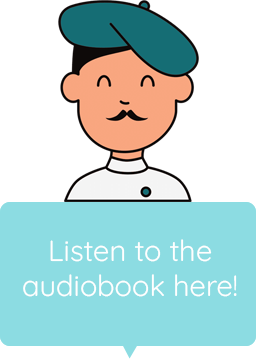
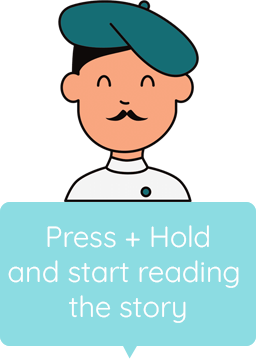
mobile version

Changed region(s): [[0.0312, 0.6128, 0.9375, 0.9192]]

diff --git a/public/js/script.js b/public/js/script.js
@@ -14,29 +14,29 @@ console.log('main row set to'+mainrowheight);
 var mic_on_color = "rgb(220,64,53)";
 var mic_off_color = "#156d74"
 
-$("#circle").mousedown(function(){
+$(".circle").mousedown(function(){
     console.log('holding.....');
-    $("#circle").css({'background':mic_on_color});
+    $(".circle").css({'background':mic_on_color});
     startRecording();
 });
 
-$("#circle").mouseup(function() {
-    $("#circle").css({'background':mic_off_color});
+$(".circle").mouseup(function() {
+    $(".circle").css({'background':mic_off_color});
     console.log('released');
     stopRecording();
 });
 
-$("#circle").on('touchstart', function(e){
+$(".circle").on('touchstart', function(e){
     e.preventDefault();
 
     console.log('holding.....');
-    $("#circle").css({'background':mic_on_color});
+    $(".circle").css({'background':mic_on_color});
     startRecording();
 });
 
-$("#circle").on('touchend', function(e){
+$(".circle").on('touchend', function(e){
     e.preventDefault();
-    $("#circle").css({'background':mic_off_color});
+    $(".circle").css({'background':mic_off_color});
     console.log('released');
     stopRecording();
 });
@@ -59,7 +59,7 @@ $('#playbutton').on('click',function(){
         player.pause();
     }
    
-    // $("#circle").css({'background':mic_off_color});
+    // $(".circle").css({'background':mic_off_color});
     
 })
 
@@ -88,7 +88,7 @@ const ps = new PerfectScrollbar('.result_holder', {
 // console.log(my_transcript);
 
 // Main single word homophone dictionary
-var homophone_dict = {'25 000': ['25000', '251000', '25miles'], 'a': ['Ah'], 'à': ['Ah'], 'à bord': ['adore'], 'agite': ['àgîtes'], 'aiment': ['M'], 'anciens': ['ancien'], 'ans': ['en'], 'appelé': ['appeler'], 'arrangez': ['arranger'], 'arrivé': ['arrivée'], 'arrivées': ['arrivé'], 'arriver': ['arrivée', 'arrivé', 'arrivées'], 'Au': ['Oh'], 'au': ['Oh'], 'aux': ['Oh','au'], 'aux hommes': ['awesome'], 'avons': ['avant'], 'bateau': ['bâteau'], 'beaux': ['beau'], 'bonnes': ['bonne'], 'brave': ['AvePAF'], 'bruns': ['brun'], 'calme': ['Cannes'], 'caractéristique': ['caractéristiques'], 'cause': ['COS'], 'cérébrale': ['cérébral'], 'cet ': ['7', 'cette'], 'cette': ['7'], 'ciel': ['sur'], 'commencé': ['commencer'], 'commencent': ['commence'], 'composent': ['compose'], 'conseils': ['conseil'], 'contrôlé': ['contrôler'], 'Crie': ['cri'], 'curieuses': ['curieuse'],"demandent":["demande"], "d'Elbe": ['Dalbe', 'soldes', 'Delvaux', 'Dell', 'bébé'], "d'évolution": ['devolution'], "d'honneur": ['donneur', 'toner'], 'd’anxiété': ["d'anxiété"], 'Danglars': ['latangla', 'Tangara', 'dollar', 'tongars', 'peignoir', 'Danglard', 'standard', 'Danglars'], 'dans': ['temps'], 'Dantès': ['Dantès', 'dentaire', 'Dante', 'danstes', 'tenter'], 'de': ['2'], 'désirez': ['désiré'], 'détestent': ['déteste'], 'dit': ['10', 'mets'], 'dites': ['dit'], 'dix': ['10'], 'dix-neuf': ['19'], 'doit': ['doigt', 'toi'], 'donnent': ['donne'], 'du port': ['duporc'], 'Edmond': ['Edmonde', 'etdemain'], 'Eh bien': ['etbien'], 'elles': ['elle'], 'en': ['on','a'], 'équipements': ['équipement'], 'est': ['et'], 'fait': ['fais'], 'francs': ['franc'], 'gestes': ['geste'], 'grand': ['quand', 'Groscon', 'Cran', 'camp'], 'habitués': ['habitué'], 'haine': ['n'], 'Hé': ['et'], 'heures': ['heure'], 'homme': ['femme'], 'hommes': ['homme', 'femme'], 'honnête': ['ponette'], 'honore': ['Honor'], 'huit': ['8', 'oui'], 'ils': ['il'], 'inattendue': ['inattendu'], 'intelligents': ['intelligent'], 'je': ['jeux'], 'jetant': ["jet'en"], 'jeune homme': ['jeunefemme'], 'jours': ['jour'], "l'île": ['Lille'], 'Leclère': ['Leclerc'], 'les': ['mets'], 'leur': ["l'heure"], 'livrées': ['livret'], 'livrées en': ['livretA'], 'longue': ['langue'], 'lui': ['nuit'], 'M': ['monsieur', 'M', 'aime'], 'main': ['mets'], 'Mais': ['mets'], 'malheur': ['alors'], 'manière': ['panière'], 'marchandise': ['marchandises'], 'marchandises': ['marchandise'], 'marins': ['marin'], 'monsieur': ['monsieur', 'Monster', 'monsieur', 'bonnesœur', 'masœur'], 'monte': ['Nantes', 'menthe'], 'Morell': ['Morel'], 'mort': ['Marc', 'Laure', 'alors', 'nord'], 'mortels': ['mortel'], 'mouvement ': ['ouvreman'], "n'a": ['na', 'non'], "n'est-ce pas": ['néo', 'mets', 'LaCiotat'], "n'y": ['ni'], 'noirs': ['noir'], 'nouvel': ['nouvelle'], 'obéissent': ['obéisse'], 'ordinaires': ['ordinaire'], 'ordres': ['ordre', 'odre'], 'organisé': ['organiser'], 'ou': ['où'], 'personnes': ['personne'], 'peut': ['peu'], 'plate-forme': ['plateforme'], 'point': ['.'], 'préparez': ['préparer'], 'près': ['prêt'], 'pressé': ['presser'], 'pris': ['prix'], 'promets': ['promet'], "Qu'est-ce": ['caisse'], "qu'ils": ["qu'il"], "qu'on": ['con'], 'quitte': ['kit'], 'quitté': ['quitter'], 'rapides': ['rapide'], 'rapportons': ['rapportant'], 'rassuré': ['rassurer'], 'Répond': ['réponds'], 'répond': ['réponds'], 'réponds': ['répond'], 'revient': ['reviens'], "s'exécute": ["c'estquec'estculte", 'sexycute', 'sexeécoute'], 'sa': ['ça'], 'saisit': ['saisie'], 'sans': ['100'], 'savez': ['savais', 'çafait', 'avec'], 'se': ['ce'], 'se demandent': ['se demande'], 'serez': ['serai'], 'ses': ["c'est"], 'si': ['6'], 'sombre': ['sandre', 'semble', 'Sambre', 'centre'], 'sommes': ['Sam'], 'sont': ['100', 'son'], 'sort': ['Saur', 'Sarah'], 'souffrances': ['souffrance'], 'soulagé': ['soulager'], 'spectateurs': ['spectateur'], 'statut': ['statue'], 'subordonnés': ['subordonnée'], 'supérieurs': ['supérieur'], 'tombé': ['tomber'], 'tous': ['tu'], 'tout': ['tu'], 'toutes': ['tout'], 'travaille': ['travail'], 'très': ['prêt'], 'triste': ['test'], 'trois': ['3'], 'un': ['1'], 'vécu': ['déçu'], 'vers': ['verre'], 'vie': ['v'], 'vingt-cinq': ['25', '20V'], 'vois': ['voix'], 'voulez': ['boulet', 'voulais'], 'vous': ['veau', 'faux'], 'yeux': ['mieux', 'Dieu']};
+var homophone_dict = {'25 000': ['25000', '251000', '25miles'], 'a': ['Ah'], 'à': ['Ah'], 'à bord': ['adore'], 'agite': ['àgîtes'], 'aiment': ['M'], 'anciens': ['ancien'], 'ans': ['en'], 'appelé': ['appeler'], 'arrangez': ['arranger'], 'arrivé': ['arrivée'], 'arrivées': ['arrivé'], 'arriver': ['arrivée', 'arrivé', 'arrivées'], 'Au': ['Oh'], 'au': ['Oh'], 'aux': ['Oh','au'], 'aux hommes': ['awesome'], 'avons': ['avant'], 'bateau': ['bâteau'], 'beaux': ['beau'], 'bonnes': ['bonne'], 'brave': ['AvePAF'], 'bruns': ['brun'], 'calme': ['Cannes'], 'caractéristique': ['caractéristiques'], 'cause': ['COS'], 'cérébrale': ['cérébral'], 'cet ': ['7', 'cette'], 'cette': ['7'], 'ciel': ['sur'], 'commencé': ['commencer'], 'commencent': ['commence'], 'composent': ['compose'], 'conseils': ['conseil'], 'contrôlé': ['contrôler'], 'Crie': ['cri'], 'curieuses': ['curieuse'],"demandent":["demande"], "d'Elbe": ['Dalbe', 'soldes', 'Delvaux', 'Dell', 'bébé'], "d'évolution": ['devolution'], "d'honneur": ['donneur', 'toner'], 'd’anxiété': ["d'anxiété"], 'Danglars': ['latangla', 'Tangara', 'dollar', 'tongars', 'peignoir', 'Danglard', 'standard', 'Danglars'], 'dans': ['temps','don'], 'Dantès': ['Dantès', 'dentaire', 'Dante', 'danstes', 'tenter'], 'de': ['2'], 'désirez': ['désiré'], 'détestent': ['déteste'], 'dit': ['10', 'mets'], 'dites': ['dit'], 'dix': ['10'], 'dix-neuf': ['19'], 'doit': ['doigt', 'toi'], 'donnent': ['donne'], 'du port': ['duporc'], 'Edmond': ['Edmonde', 'etdemain'], 'Eh bien': ['etbien'], 'elles': ['elle'], 'en': ['on','a'], 'équipements': ['équipement'], 'est': ['et'], 'fait': ['fais'], 'francs': ['franc'], 'gestes': ['geste'], 'grand': ['quand', 'Groscon', 'Cran', 'camp'], 'habitués': ['habitué'], 'haine': ['n'], 'Hé': ['et'], 'heures': ['heure'], 'homme': ['femme'], 'hommes': ['homme', 'femme'], 'honnête': ['ponette'], 'honore': ['Honor'], 'huit': ['8', 'oui'], 'ils': ['il'], 'inattendue': ['inattendu'], 'intelligents': ['intelligent'], 'je': ['jeux'], 'jetant': ["jet'en"], 'jeune homme': ['jeunefemme'], 'jours': ['jour'], "l'île": ['Lille'], 'Leclère': ['Leclerc'], 'les': ['mets'], 'leur': ["l'heure"], 'livrées': ['livret'], 'livrées en': ['livretA'], 'longue': ['langue'], 'lui': ['nuit'], 'M': ['monsieur', 'M', 'aime'], 'main': ['mets'], 'Mais': ['mets'], 'malheur': ['alors'], 'manière': ['panière'], 'marchandise': ['marchandises'], 'marchandises': ['marchandise'], 'marins': ['marin'], 'monsieur': ['monsieur', 'Monster', 'monsieur', 'bonnesœur', 'masœur'], 'monte': ['Nantes', 'menthe'], 'Morell': ['Morel'], 'mort': ['Marc', 'Laure', 'alors', 'nord'], 'mortels': ['mortel'], 'mouvement ': ['ouvreman'], "n'a": ['na', 'non'], "n'est-ce pas": ['néo', 'mets', 'LaCiotat'], "n'y": ['ni'], 'noirs': ['noir'], 'nouvel': ['nouvelle'], 'obéissent': ['obéisse'], 'ordinaires': ['ordinaire'], 'ordres': ['ordre', 'odre'], 'organisé': ['organiser'], 'ou': ['où'], 'personnes': ['personne'], 'peut': ['peu'], 'plate-forme': ['plateforme'], 'point': ['.'], 'préparez': ['préparer'], 'près': ['prêt'], 'pressé': ['presser'], 'pris': ['prix'], 'promets': ['promet'], "Qu'est-ce": ['caisse'], "qu'ils": ["qu'il"], "qu'on": ['con'], 'quitte': ['kit'], 'quitté': ['quitter'], 'rapides': ['rapide'], 'rapportons': ['rapportant'], 'rassuré': ['rassurer'], 'Répond': ['réponds'], 'répond': ['réponds'], 'réponds': ['répond'], 'revient': ['reviens'], "s'exécute": ["c'estquec'estculte", 'sexycute', 'sexeécoute'], 'sa': ['ça'], 'saisit': ['saisie'], 'sans': ['100'], 'savez': ['savais', 'çafait', 'avec'], 'se': ['ce'], 'se demandent': ['se demande'], 'serez': ['serai'], 'ses': ["c'est"], 'si': ['6'], 'sombre': ['sandre', 'semble', 'Sambre', 'centre'], 'sommes': ['Sam'], 'sont': ['100', 'son'], 'sort': ['Saur', 'Sarah'], 'souffrances': ['souffrance'], 'soulagé': ['soulager'], 'spectateurs': ['spectateur'], 'statut': ['statue'], 'subordonnés': ['subordonnée'], 'supérieurs': ['supérieur'], 'tombé': ['tomber'], 'tous': ['tu'], 'tout': ['tu'], 'toutes': ['tout'], 'travaille': ['travail'], 'très': ['prêt'], 'triste': ['test'], 'trois': ['3'], 'un': ['1'], 'vécu': ['déçu'], 'vers': ['verre'], 'vie': ['v'], 'vingt-cinq': ['25', '20V'], 'vois': ['voix'], 'voulez': ['boulet', 'voulais'], 'vous': ['veau', 'faux'], 'yeux': ['mieux', 'Dieu']};
 
 var homophone_multiword_dict = {'aux hommes':['ozone','ozon','awesome']};
 var multiword_catcher = ['aux'];

diff --git a/public/css/tooltip.css b/public/css/tooltip.css
@@ -12,17 +12,15 @@
     border: 1px solid blue !important;
 } */
 
+
+
 body{
     background-color:rgba(255,255,255);
     /* overflow-y:hidden; */
     --plyr-color-main:#156d74;
 }
 
-.booktitle {
-    margin-left: 96px;
-    font-size:43px;
-    /* font-size: 61px; */
-}
+
 .mic{
     margin-top:25%;
 }
@@ -146,15 +144,7 @@ p {
     object-fit:scale-down;
     right:0;
 }
-#circle {
-    background: lightblue;
-    background: rgb(220,64,53);
-    background: #156d74;
-    border-radius: 50%;
-    width: 70px;
-    height: 70px;
-    cursor:pointer;
-}
+
 
 #playbutton{
     background: #156d74;
@@ -201,3 +191,73 @@ ul {
     margin-top: 20px;
     cursor:pointer;
 }
+
+
+
+
+
+.desktop{
+    display:none !important;
+}
+
+.mobiletitle{
+    color: #156d74;
+    padding-top:5px;
+    padding-bottom: 28px;
+}
+.movemobile{
+    padding-top:0px !important;
+    padding-left:10px !important;
+    padding-right:10px !important;
+}
+
+.booktitle{
+    font-size:20px;
+    margin-left: 1rem;
+}
+.mobilemic{
+    transform: translateY(14px);
+}
+.circle{
+    background: lightblue;
+    background: rgb(220,64,53);
+    background: #156d74;
+    border-radius: 50%;
+    cursor:pointer;
+    width:60px;
+    height:60px;
+}
+#skipword{
+    transform: translateY(0px);
+    font-size:14px;
+    background-color: #8cdce2;
+    border: 0px;
+    border-radius: 5px;
+}
+
+@media only screen and (min-width: 600px) {
+    /* body {
+      background-color: lightblue;
+    } */
+    .mobile{
+        display:none !important;
+    }
+    .desktop{
+        display:flex !important;
+    }
+    .circle {
+    
+        width: 70px;
+        height: 70px;
+        
+    }
+    #skipword{
+        transform:translateY(-130px);
+        
+    }
+    .booktitle {
+        margin-left: 96px;
+        font-size:43px;
+        /* font-size: 61px; */
+    }
+  }

diff --git a/public/js/client2.js b/public/js/client2.js
@@ -144,7 +144,7 @@ socket.on('speechData', function (data) {
 
 		console.log(finalString);
 		canalyse(finalString);
-		$('#ResultText').append(finalString+' ');
+		$('.ResultText').append(finalString+' ');
 
 		finalWord = true;
 		endButton.disabled = false;
